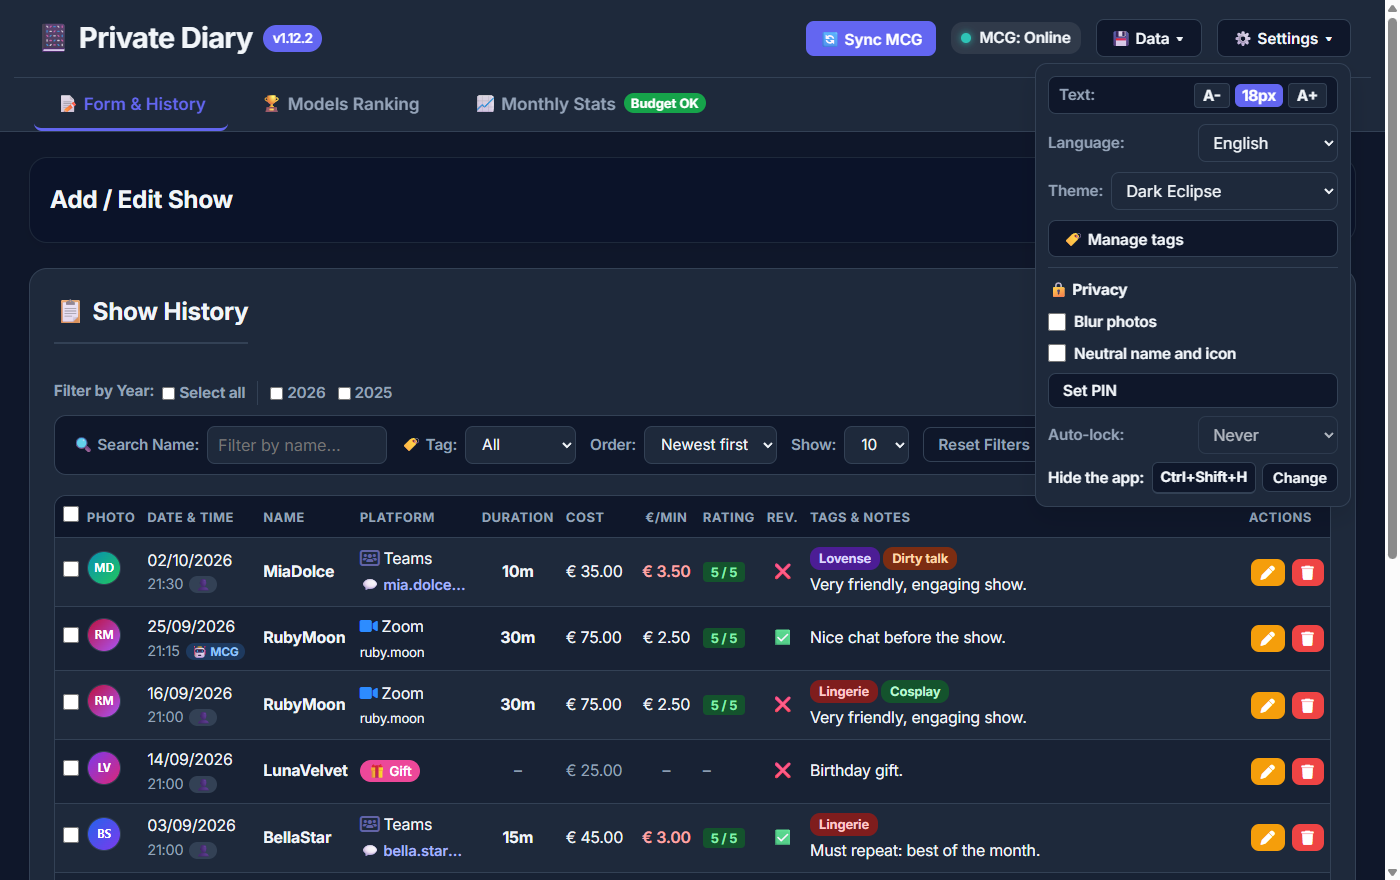
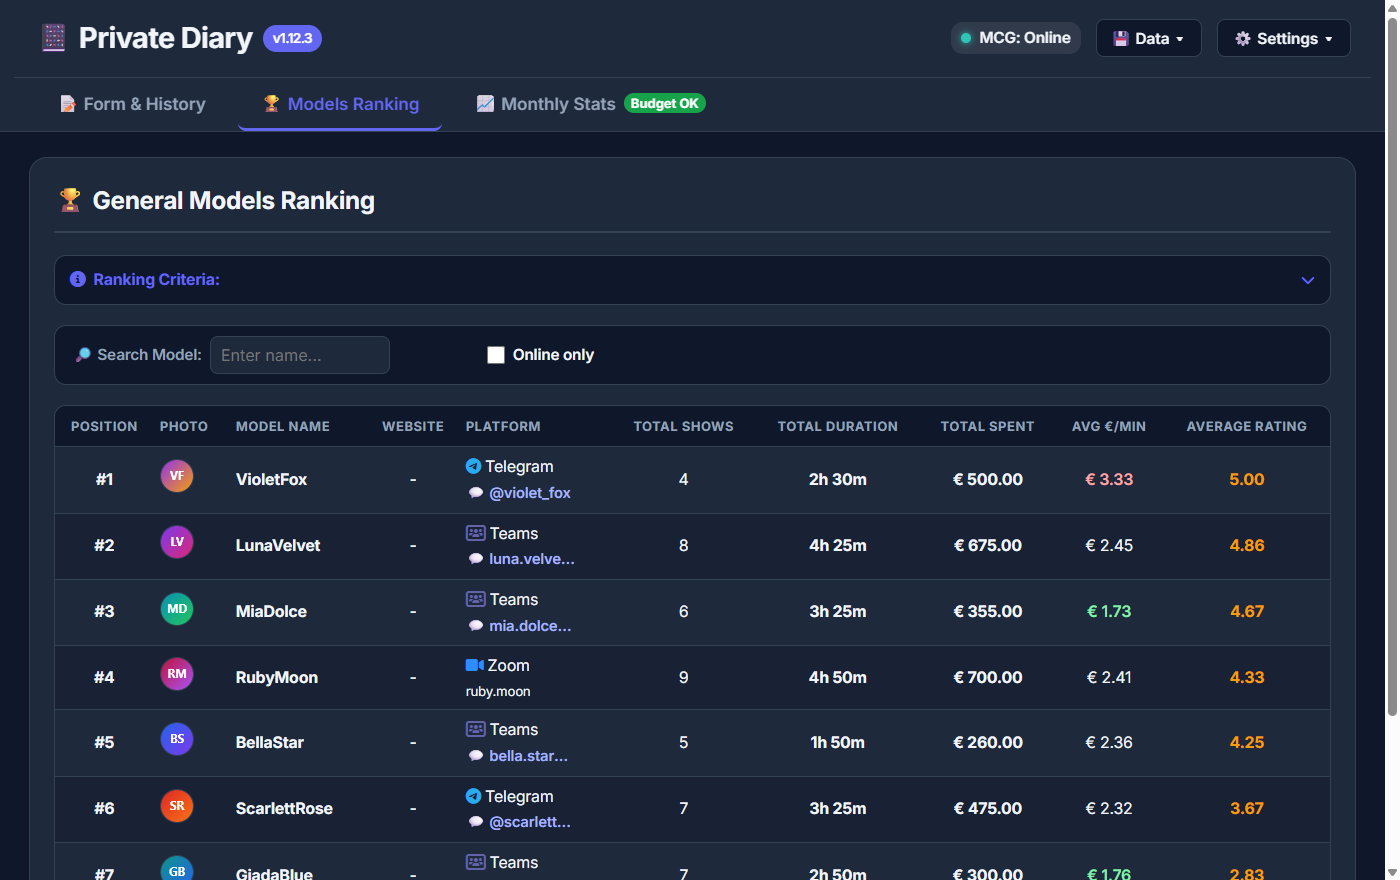
1.12.3: importazione da Mondo Cam Girls nel menu Dati
- Sincronizza MCG e Cronologia completa MCG spostate nel menu Dati, in una
  sezione evidenziata "Importa da Mondo Cam Girls", con una descrizione
  breve sotto ogni voce e un tooltip che spiega la differenza tra le due
- Il menu Dati ha ora due sezioni: importazione da MCG e backup
- Il pulsante Sincronizza MCG non è più nell'intestazione
- Traduzioni dei tooltip con data-i18n-title (i18n.js)
- Guida, README, changelog e screenshot aggiornati

diff --git a/index.html b/index.html
@@ -26,23 +26,36 @@
             </h1>
 
             <div class="header-controls">
-                <!-- Azione principale sempre visibile -->
-                <button type="button" class="btn-sync" data-azione="sincronizza-mcg" title="Sincronizza da MondoCamGirls" data-i18n="actions.sync">🔄 Sincronizza MCG</button>
-
                 <!-- Stato raggiungibilità Mondo Cam Girls (clic = nuova verifica) -->
                 <div class="mcg-status-container" id="mcgStatusContainer" role="button" tabindex="0">
                     <span class="status-dot yellow" id="mcgStatusDot"></span>
                     <span class="status-text" id="mcgStatusText">MCG: Verifica...</span>
                 </div>
 
-                <!-- MENU DATI: backup e cartella -->
+                <!-- MENU DATI: importazione da Mondo Cam Girls, backup e cartella -->
                 <div class="menu-header" id="menuDati">
                     <button type="button" class="btn-data menu-header-toggle" aria-haspopup="true" aria-expanded="false" data-i18n="menu.data">💾 Dati ▾</button>
                     <div class="menu-header-pannello" role="menu">
-                        <button type="button" class="btn-data" role="menuitem" data-azione="esporta-backup" title="Esporta Backup" data-i18n="actions.export">💾 Esporta</button>
-                        <button type="button" class="btn-data" role="menuitem" data-azione="importa-backup" title="Importa Backup" data-i18n="actions.import">📥 Importa</button>
-                        <button type="button" class="btn-data" role="menuitem" data-azione="apri-cartella-dati" title="Apri Cartella Dati" data-i18n="actions.folder">📁 Cartella</button>
-                        <button type="button" class="btn-data" role="menuitem" data-azione="cronologia-completa-mcg" title="Legge tutte le pagine delle transazioni di MondoCamGirls" data-i18n="actions.sync_all">📜 Cronologia completa MCG</button>
+                        <!-- Le due importazioni da MCG: descrizione breve sempre visibile, differenza completa nel tooltip -->
+                        <div class="menu-sezione menu-sezione-mcg" role="group" aria-labelledby="titoloSezioneMcg">
+                            <span class="titolo-sezione-menu" id="titoloSezioneMcg" data-i18n="menu.mcg_title">🌐 Importa da Mondo Cam Girls</span>
+                            <button type="button" class="btn-data voce-menu-mcg" role="menuitem" data-azione="sincronizza-mcg"
+                                title="Legge solo la prima pagina delle transazioni (le ultime 100) e importa gli show nuovi." data-i18n-title="actions.sync_hint">
+                                <span class="voce-menu-titolo" data-i18n="actions.sync">🔄 Sincronizza MCG</span>
+                                <small class="voce-menu-descrizione" data-i18n="actions.sync_desc">Ultime transazioni · rapida</small>
+                            </button>
+                            <button type="button" class="btn-data voce-menu-mcg" role="menuitem" data-azione="cronologia-completa-mcg"
+                                title="Legge tutte le pagine delle transazioni e importa tutto ciò che manca." data-i18n-title="actions.sync_all_hint">
+                                <span class="voce-menu-titolo" data-i18n="actions.sync_all">📜 Cronologia completa MCG</span>
+                                <small class="voce-menu-descrizione" data-i18n="actions.sync_all_desc">Tutte le pagine · più lenta</small>
+                            </button>
+                        </div>
+                        <div class="menu-sezione" role="group" aria-labelledby="titoloSezioneBackup">
+                            <span class="titolo-sezione-menu" id="titoloSezioneBackup" data-i18n="menu.backup_title">💾 Backup e dati</span>
+                            <button type="button" class="btn-data" role="menuitem" data-azione="esporta-backup" title="Esporta Backup" data-i18n="actions.export">💾 Esporta</button>
+                            <button type="button" class="btn-data" role="menuitem" data-azione="importa-backup" title="Importa Backup" data-i18n="actions.import">📥 Importa</button>
+                            <button type="button" class="btn-data" role="menuitem" data-azione="apri-cartella-dati" title="Apri Cartella Dati" data-i18n="actions.folder">📁 Cartella</button>
+                        </div>
                     </div>
                 </div>
 

diff --git a/style.css b/style.css
@@ -1382,13 +1382,6 @@ a.modella-url:hover { text-decoration: underline; }
     width: 100%;
 }
 
-.btn-sync {
-    background: var(--primary-color);
-    color: #fff;
-    padding: 7px 14px;
-    font-size: 0.85rem;
-}
-.btn-sync:hover { background: var(--primary-hover); }
 
 /* ==========================================================================
    FORM A SCOMPARSA
@@ -1956,3 +1949,25 @@ kbd.tasto-rapido.in-registrazione { border-color: var(--primary-color); color: v
 .riquadro-blocco h2 { margin: 0; font-size: 1.2rem; }
 .riquadro-blocco input { text-align: center; font-size: 1.3rem; letter-spacing: 0.3em; }
 .riquadro-blocco button { width: 100%; }
+
+/* Menu Dati: sezioni (importazione da MCG evidenziata, backup) */
+.menu-sezione { display: flex; flex-direction: column; gap: 6px; }
+.menu-sezione + .menu-sezione { padding-top: 10px; border-top: 1px solid var(--border-color); }
+.menu-sezione-mcg {
+    padding: 10px;
+    border-radius: var(--radius-sm);
+    border-left: 4px solid var(--primary-color);
+    background: color-mix(in srgb, var(--primary-color) 9%, var(--bg-card));
+}
+.menu-header-pannello .voce-menu-mcg {
+    flex-direction: column;
+    align-items: flex-start;
+    gap: 2px;
+    text-align: left;
+}
+.voce-menu-descrizione { color: var(--text-muted); font-size: 0.75rem; font-weight: 500; }
+/* Pannello largo abbastanza per titoli e descrizioni su una riga */
+#menuDati .menu-header-pannello { min-width: 320px; }
+.menu-sezione-mcg .titolo-sezione-menu,
+.voce-menu-titolo,
+.voce-menu-descrizione { white-space: nowrap; }

diff --git a/js/i18n.js b/js/i18n.js
@@ -27,7 +27,7 @@ export function t(key) {
     return key.split('.').reduce((obj, i) => (obj ? obj[i] : null), traduzioniCorrenti) || key;
 }
 
-// Aggiorna tutti gli elementi con data-i18n e data-i18n-ph
+// Aggiorna tutti gli elementi con data-i18n, data-i18n-ph e data-i18n-title
 export function aggiornaTestiDOM() {
     // Testi generici
     document.querySelectorAll('[data-i18n]').forEach(elem => {
@@ -39,6 +39,11 @@ export function aggiornaTestiDOM() {
     document.querySelectorAll('[data-i18n-ph]').forEach(elem => {
         const key = elem.getAttribute('data-i18n-ph');
         elem.placeholder = t(key);
+    });
+
+    // Tooltip (attributo title)
+    document.querySelectorAll('[data-i18n-title]').forEach(elem => {
+        elem.title = t(elem.getAttribute('data-i18n-title'));
     });
 }
 

diff --git a/docs/note-di-rilascio.md b/docs/note-di-rilascio.md
@@ -1,16 +1,12 @@
-# Private Diary 1.12.2
+# Private Diary 1.12.3
 
-**Download:** `PrivateDiary-1.12.2-portable.exe` qui sotto, negli *Assets*. App portable per Windows 10/11: non serve installarla. L'eseguibile non ha una firma digitale: se Windows SmartScreen mostra un avviso, scegli **Ulteriori informazioni › Esegui comunque** (*More info › Run anyway*).
+**Download:** `PrivateDiary-1.12.3-portable.exe` qui sotto, negli *Assets*. App portable per Windows 10/11: non serve installarla. L'eseguibile non ha una firma digitale: se Windows SmartScreen mostra un avviso, scegli **Ulteriori informazioni › Esegui comunque** (*More info › Run anyway*).
 
 I dati delle versioni precedenti (anche di *Gestione Show MCG*) vengono letti automaticamente: non serve fare nulla.
 
-## 🐛 Correzioni
+## 🎨 Interfaccia
 
-- Alcuni testi della scheda modella (sito web e galleria foto) restavano in italiano con l'interfaccia in inglese
-
-## 🛠 Tecnico
-
-- Progetto presentato su GitHub come Private Diary: README in inglese e in italiano con screenshot, guida completa e documentazione per lo sviluppo in docs/, licenza ISC, CHANGELOG.md generato da changelog.json, modelli per le segnalazioni e test automatici a ogni push
+- Sincronizza MCG e Cronologia completa MCG sono nel menu Dati, in una sezione evidenziata «Importa da Mondo Cam Girls», con una descrizione sotto ogni voce e un tooltip che spiega la differenza; il pulsante Sincronizza MCG non è più nell'intestazione
 
 ---
 Storia completa: [CHANGELOG.md](https://github.com/blackcornercode/private-diary/blob/main/CHANGELOG.md) · Contatti: blackcornermail@gmail.com

diff --git a/README.it.md b/README.it.md
@@ -6,7 +6,7 @@
 
 **Il tuo diario privato degli show: ogni incontro registrato, ogni euro sotto controllo, ogni modella al posto giusto in classifica.**
 
-[![Versione](https://img.shields.io/badge/versione-1.12.2-6d2336)](https://github.com/blackcornercode/private-diary/releases)
+[![Versione](https://img.shields.io/badge/versione-1.12.3-6d2336)](https://github.com/blackcornercode/private-diary/releases)
 ![Piattaforma](https://img.shields.io/badge/piattaforma-Windows-0078d4)
 [![Test](https://github.com/blackcornercode/private-diary/actions/workflows/test.yml/badge.svg)](https://github.com/blackcornercode/private-diary/actions/workflows/test.yml)
 [![Licenza](https://img.shields.io/badge/licenza-ISC-c5a05a)](LICENSE)
@@ -46,7 +46,7 @@
 
 ## 🚀 Primi passi
 
-1. **Registra il primo show** con **＋ Nuovo show**, oppure importa la tua cronologia da Mondo Cam Girls con **🔄 Sincronizza MCG** (il menu **Dati › Cronologia completa MCG** legge tutte le pagine).
+1. **Registra il primo show** con **＋ Nuovo show**, oppure importa la tua cronologia da Mondo Cam Girls dal menu **💾 Dati**: **🔄 Sincronizza MCG** legge le ultime transazioni, **📜 Cronologia completa MCG** tutte le pagine.
 2. **Imposta un budget mensile** in **Statistiche Mensili**: il badge accanto alla scheda ti dice a colpo d'occhio se lo stai rispettando.
 3. **Proteggi l'app** da **⚙ Impostazioni › 🔒 Privacy**: PIN, foto sfocate, nome neutro e tasto rapido per nasconderla (predefinito **Ctrl+Shift+H**).
 

diff --git a/README.md b/README.md
@@ -6,7 +6,7 @@
 
 **Your private cam-show diary: every session logged, every euro under control, every model in the right place in the ranking.**
 
-[![Version](https://img.shields.io/badge/version-1.12.2-6d2336)](https://github.com/blackcornercode/private-diary/releases)
+[![Version](https://img.shields.io/badge/version-1.12.3-6d2336)](https://github.com/blackcornercode/private-diary/releases)
 ![Platform](https://img.shields.io/badge/platform-Windows-0078d4)
 [![Tests](https://github.com/blackcornercode/private-diary/actions/workflows/test.yml/badge.svg)](https://github.com/blackcornercode/private-diary/actions/workflows/test.yml)
 [![License](https://img.shields.io/badge/license-ISC-c5a05a)](LICENSE)
@@ -46,7 +46,7 @@
 
 ## 🚀 Getting started
 
-1. **Add your first show** with **＋ New show**, or import your history from Mondo Cam Girls with **🔄 Sync MCG** (menu **Data › Full MCG history** reads every page).
+1. **Add your first show** with **＋ New show**, or import your history from Mondo Cam Girls from the **💾 Data** menu: **🔄 Sync MCG** reads your latest transactions, **📜 Full MCG history** reads every page.
 2. **Set a monthly budget** in **Monthly Stats**: the badge next to the tab tells you at a glance whether you are within it.
 3. **Protect the app** from **⚙ Settings › 🔒 Privacy**: PIN, blurred photos, neutral name and the hide hotkey (default **Ctrl+Shift+H**).
 

diff --git a/docs/GUIDA.md b/docs/GUIDA.md
@@ -109,8 +109,10 @@ Dal menu **⚙ Impostazioni › 🔒 Privacy**:
 
 ## ⚙ Funzioni di Sistema e Utility
 
-L'intestazione mostra sempre **🔄 Sincronizza MCG** e l'indicatore di raggiungibilità del sito. Le altre funzioni sono raccolte in due menu a tendina:
-- **💾 Dati**: Esporta, Importa, Cartella.
+L'intestazione mostra l'indicatore di raggiungibilità di Mondo Cam Girls; le funzioni sono raccolte in due menu a tendina:
+- **💾 Dati**, in due sezioni:
+  - **🌐 Importa da Mondo Cam Girls** (evidenziata): **🔄 Sincronizza MCG** (ultime transazioni, rapida: da usare dopo ogni show) e **📜 Cronologia completa MCG** (tutte le pagine, più lenta: la prima volta o per recuperare show vecchi). Sotto ogni voce c'è una descrizione breve; il tooltip spiega la differenza per intero.
+  - **💾 Backup e dati**: Esporta, Importa, Cartella.
 - **⚙ Impostazioni**: dimensione del testo, lingua, tema, gestione dei tag, privacy.
 
 I menu si chiudono con un clic fuori o con `Esc`.
@@ -159,7 +161,7 @@ Formato del file di backup esportato:
 {
   "formato": "gestioneshow-backup",
   "versione": 1,
-  "versioneApp": "1.12.2",
+  "versioneApp": "1.12.3",
   "shows": [ ... ],
   "tag": [ { "id": "lush", "nome": "Lush", "colore": "viola" } ],
   "impostazioni": { "monthly_budget": "300" }

diff --git a/CHANGELOG.md b/CHANGELOG.md
@@ -3,6 +3,12 @@
 Novità di ogni versione di **Diario Privato** (*Private Diary*, già *Gestione Show MCG*).
 Generato da `changelog.json` con `npm run changelog`: per modificarlo, modificare `changelog.json`.
 
+## 1.12.3
+
+### 🎨 Interfaccia
+
+- Sincronizza MCG e Cronologia completa MCG sono nel menu Dati, in una sezione evidenziata «Importa da Mondo Cam Girls», con una descrizione sotto ogni voce e un tooltip che spiega la differenza; il pulsante Sincronizza MCG non è più nell'intestazione
+
 ## 1.12.2
 
 ### 🐛 Correzioni
